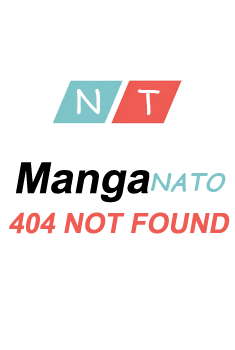
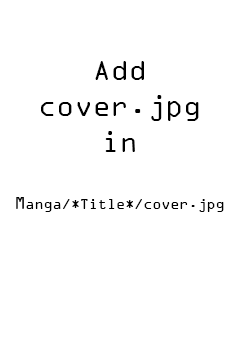
11:45am June 4, 2023

Changed region(s): [[0.0298, 0.4571, 0.983, 0.6857], [0.1787, 0.1714, 0.8638, 0.4286], [0.4468, 0.3714, 0.5064, 0.4571]]

diff --git a/src/mangaDetails.html b/src/mangaDetails.html
@@ -203,47 +203,12 @@
 
 <body>
     <div class="body-site">
-        <div class="container container-header">
-            <div class="logo">
-                <a href="../index.html" title="Manga Online">
-                    <img src="../logo.png" alt="Manga Online" title="Manga Online">
-                </a>
-            </div>
-            <div class="container-header-top">
-                <div class="box-search">
-                    <form name="frmsearch">
-                        <input id="search-story" autocomplete="off" placeholder="Search Manga(everything)"
-                            class="search-story searchi">
-                        <div id="SearchResult">
-                            <ul></ul>
-                            <div id="search-footer" class="searchf"></div>
-                        </div>
-                        <div id="SearchResult">
-                            <ul></ul>
-                            <div id="search-footer" class="searchf"></div>
-                        </div>
-                        <input style="display: none;">
-                    </form>
-                    <script>
-                        //$search_address = baseurljs + 'https://manganato.com/search/story/';
-                    </script>
-                </div>
-                <div class="box-user-options">
-                    <a rel="nofollow" href="#"
-                        class="user-login">Login</a>
-                    <a rel="nofollow" href="#"
-                        class="user-register">Register</a>
-                    <i class="mode-changer"></i>
-                </div>
-            </div>
-
-        </div>
 
         <div class="container container-main">
             <div class="container-main-left">
 
                 <div class="panel-breadcrumb">
-                    <a class="a-h" href="../index.html" title="Read Manga Online">Read Manga Online</a>
+                    <a class="a-h" href="../index.html" title="Bookshelf">Bookshelf</a>
                     <span>»</span>
                     <a id="breadcrumbTitle"></a>
                 </div>
@@ -269,8 +234,6 @@
                 <div class="panel-story-chapter-list">
                     <p class="row-title-chapter" style="width: calc(100% - 17px);">
                         <span class="row-title-chapter-name">Chapter name</span>
-                        <span class="row-title-chapter-view">View</span>
-                        <span class="row-title-chapter-time">Uploaded</span>
                     </p>
                     <ul id="chapters" class="row-content-chapter">
                 
@@ -286,12 +249,6 @@
     </div>
 
     <button class="resume-button" onclick="resumeClick()" >Resume</button>
-
-
-    <div id="top" style="display: none;">Back to Top</div>
-
-
-    <div id="top">Back to Top</div>
 </body>
 <script src="../mangaDetails.js"></script>
 </html>

diff --git a/src/bookshelf.js b/src/bookshelf.js
@@ -4,6 +4,8 @@ const path = require('path');
 
 const filess = [];
 
+let popupIndex = 0;
+
 
 const url = "C:/Users/Metaverse Technology/Downloads/Manga";
 
@@ -46,9 +48,15 @@ fs.readdir(url, { withFileTypes: true }, (err, files) => {
             const imageUrl2 = path.join(url, file.name,'cover.jpg');
 
             const bookDiv = document.createElement('div');
-            bookDiv.classList.add('book');
+            bookDiv.classList.add('book','popup');
             bookDiv.onclick = function() {
                 bookClicked(path.join("mangaDetails.html/?title=", file.name));
+            };
+            bookDiv.onmouseover = function() {
+                miniPopup(index);
+            };
+            bookDiv.onmouseout = function() {
+                miniPopup(index);
             };
 
             if (fs.existsSync(imageUrl2)) {
@@ -57,7 +65,20 @@ fs.readdir(url, { withFileTypes: true }, (err, files) => {
                 bookDiv.style.setProperty('--bg-image', "url('./images/404_not_found.png')");
             }
 
+            const popupSpan = document.createElement('span');
+            popupSpan.classList.add("popuptext");
+            popupSpan.innerHTML = file.name;
+            popupSpan.setAttribute('id', `myPopup${popupIndex}`);
+            bookDiv.appendChild(popupSpan);
+
             div2.appendChild(bookDiv);
+            popupIndex++;
         });
     }
 });
+
+// When the user clicks on <div>, open the popup
+        function miniPopup(index) {
+          var popup = document.getElementById(`myPopup${index}`);
+          popup.classList.toggle("show");
+        }

diff --git a/src/popup.css b/src/popup.css
@@ -1,0 +1,51 @@
+.popup {
+    position: relative;
+    display: inline-block;
+    cursor: pointer;
+  }
+  
+  /* The actual popup (appears on top) */
+  .popup .popuptext {
+    visibility: hidden;
+    width: 160px;
+    background-color: #555;
+    color: #fff;
+    text-align: center;
+    border-radius: 6px;
+    padding: 8px 0;
+    position: absolute;
+    z-index: 1;
+    bottom: 125%;
+    left: 50%;
+    margin-left: -80px;
+  }
+  
+  /* Popup arrow */
+  .popup .popuptext::after {
+    content: "";
+    position: absolute;
+    top: 100%;
+    left: 50%;
+    margin-left: -5px;
+    border-width: 5px;
+    border-style: solid;
+    border-color: #555 transparent transparent transparent;
+  }
+  
+  /* Toggle this class when clicking on the popup container (hide and show the popup) */
+  .popup .show {
+    visibility: visible;
+    -webkit-animation: fadeIn 1s;
+    animation: fadeIn 1s
+  }
+  
+  /* Add animation (fade in the popup) */
+  @-webkit-keyframes fadeIn {
+    from {opacity: 0;}
+    to {opacity: 1;}
+  }
+  
+  @keyframes fadeIn {
+    from {opacity: 0;}
+    to {opacity:1 ;}
+  }

diff --git a/src/mangaChapter.html b/src/mangaChapter.html
@@ -50,14 +50,9 @@
 <body>
     <div class="body-site">
         <div class="container">
-            <div class="panel-logo-chapter">
-                <a href="../index.html" title="Manga Online">
-                    <img src="../logo.png" alt="Manga Online" title="Manga Online">
-                </a>
-            </div>
 
             <div class="panel-breadcrumb">
-                <a class="a-h" href="../index.html" title="Read Manga Online">Read Manga Online</a>
+                <a class="a-h" href="../index.html" title="Bookshelf">Bookshelf</a>
                 <span>»</span>
                 <a id="breadcrumbTitle"></a>
                 <span>»</span>
@@ -94,7 +89,7 @@
             </div>
 
             <div class="panel-breadcrumb">
-                <a class="a-h" href="../index.html" title="Read Manga Online">Read Manga Online</a>
+                <a class="a-h" href="../index.html" title="Bookshelf">Bookshelf</a>
                 <span>»</span>
                 <a id="breadcrumbTitle2"></a>
                 <span>»</span>

diff --git a/src/index.js b/src/index.js
@@ -13,8 +13,7 @@ const createWindow = () => {
   const mainWindow = new BrowserWindow({
     width: 1366,
     height: 768,
-    width: 1366,
-    height: 768,
+    autoHideMenuBar: true,
     webPreferences: {
       enableRemoteModule: true,
       contextIsolation: false,

diff --git a/src/index.html b/src/index.html
@@ -4,6 +4,7 @@
 <head>
     <title>Bookshelf</title>
     <link rel="stylesheet" type="text/css" href="bookshelf.css">
+    <link rel="stylesheet" type="text/css" href="popup.css">
 
 </head>
 
